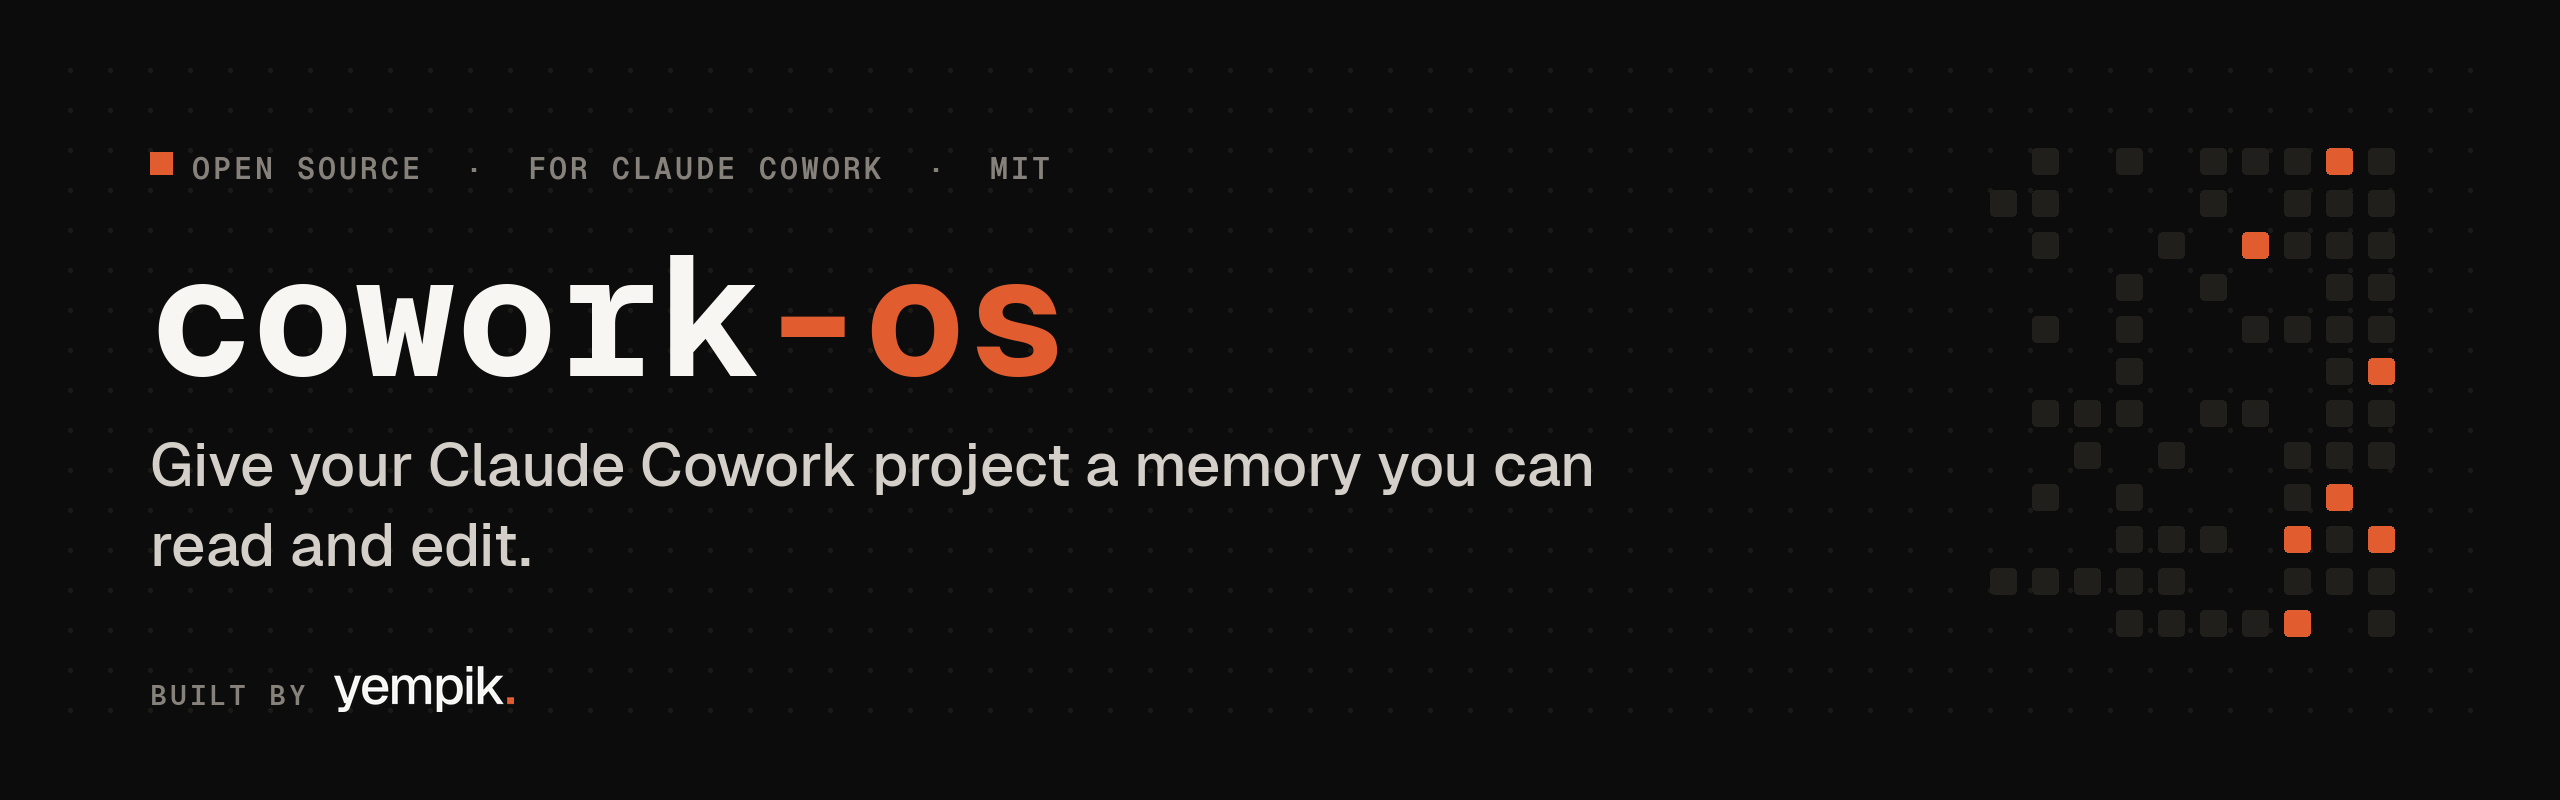
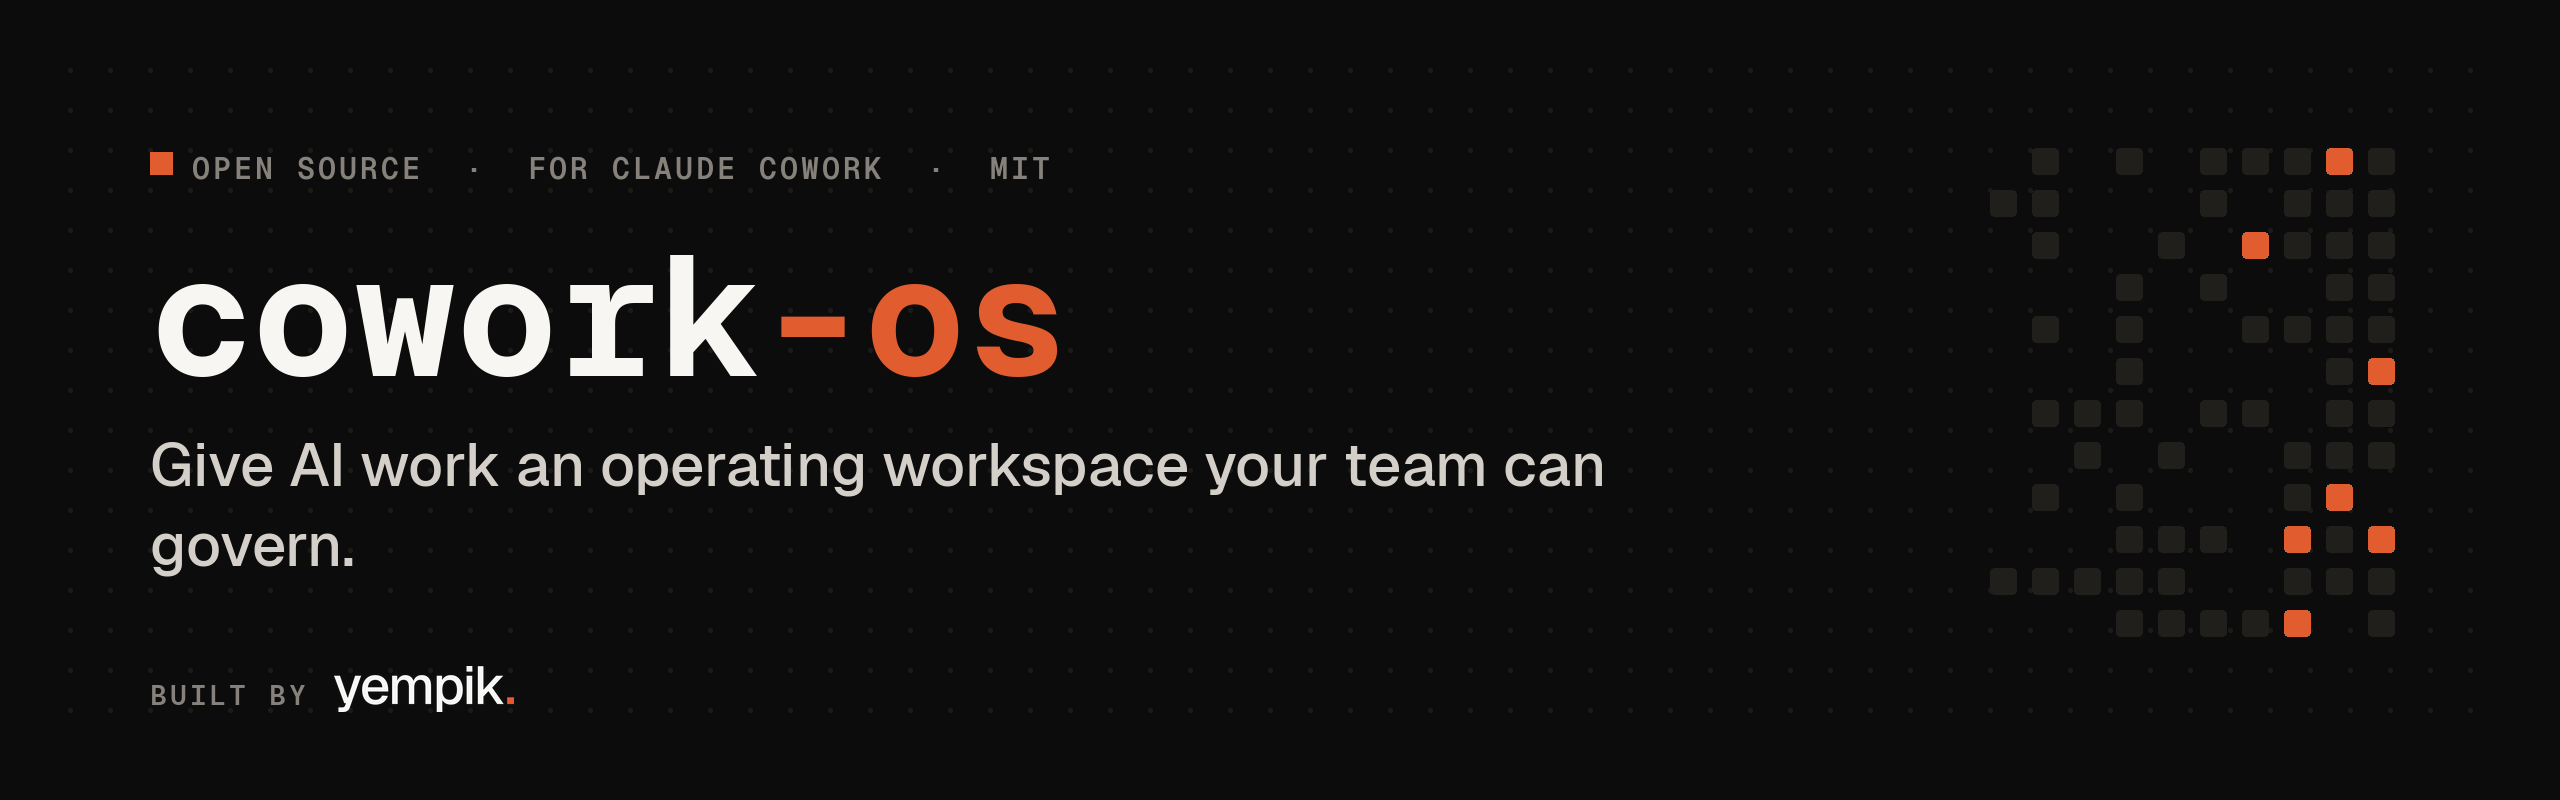
Skip devto-radar run, document decision
The dev.to radar task was skipped on 2026-06-24 due to missing configuration files (runbook, messaging strategy, brand context) in the public template scaffold. Added a lock file and run report documenting the blocker. Also removed outdated image reference from README and updated banner.

Changed region(s): [[0.0938, 0.5312, 0.625, 0.625], [0.0625, 0.6562, 0.2188, 0.7188]]

diff --git a/marketing/devto_radar_2026-06-24.md b/marketing/devto_radar_2026-06-24.md
@@ -1,0 +1,36 @@
+# dev.to + Peerlist Radar — 2026-06-24
+
+## Run log
+
+### 02:10 CEST — Run SKIPPED (blocked: sources of truth missing)
+
+**Preflight**
+- Real Europe/Rome time: 2026-06-24 02:10 CEST ✓
+- STOP_RADAR: not present ✓
+- Lock: prior lock was stale (`00:10:30 CEST`, >15 min old) → overwritten with fresh PID+timestamp ✓
+- Today's log: none existed → this file created ✓
+- Chrome (Claude in Chrome): connected — "Browser 1", macOS, local ✓
+
+**Blocker (why no action was taken)**
+The mounted `cowork-os` folder is the **public template scaffold**, not Raffaele's populated private instance. Every operating/brand file the task names as a "source of truth" is missing or unfilled:
+
+- `marketing/devto_engine_runbook.md` — MISSING (never in git history)
+- `marketing/devto_strategy.md` — MISSING
+- `contenuti-marketing/cowork-os_messaging.md` — MISSING (whole `contenuti-marketing/` folder absent)
+- `contenuti-marketing/peerlist_strategy.md` — MISSING
+- `contenuti-marketing/launch-visuals/devto_cover_en.py` (+ Geist/brand assets) — MISSING
+- `context/tone_of_voice.md`, `context/positioning.md`, `marketing/strategy.md` — present but **unfilled templates** (15–17 `{{PLACEHOLDER}}` each; company = `{{COMPANY}}`, founder = `{{FOUNDER}}`).
+- `scheduled-tasks/` contains no `devto-radar` task file; closest is `engagement-radar-daily.md` (a **read-only** LinkedIn radar).
+
+**Decision**
+All main and initiative actions require posting **public content as Raffaele** (comments, articles, replies) or sending **public network signals** (reactions, follows, reshares) that depend on the missing runbook (procedure) and messaging (HOW to describe cowork-os, banned openings, voice guardrails). With only placeholder brand files available, executing any of these would mean **inventing Yempik's messaging/voice and procedure** — forbidden by both the project rules ("non inventare ... contenuti") and the task's own HARD rules ("follow the runbook to the letter"). Per the AFK fallback ("when in doubt, produce a report"), no write/public action was taken.
+
+Note: the dev.to public API (read-only radar intel) could not be fetched either — `web_fetch` provenance restriction blocks URLs not already in the conversation, and direct curl/wget is disallowed by environment policy. So no thread/tag scan was possible this run.
+
+**Counters (2026-06-24)**
+- dev.to top-level comments: 0 / 4
+- Peerlist top-level comments: 0 / 3
+- Articles: 0 / 1
+- Reactions / follows / reshares / replies: 0 (none — abort)
+
+**Learned:** the workspace mounts the open-source cowork-os *template*, not the live Yempik instance the devto-radar engine was written against. Until the real runbook + messaging + strategy files (or filled-in brand files) are accessible to this session, the radar cannot safely act and will keep skipping.

diff --git a/README.md b/README.md
@@ -41,10 +41,6 @@ Because the operating context is on disk and you can correct it, the agent can r
 
 It is not a separate app and it has no dependencies. You load it into a Claude Cowork project (or any agentic workspace) and you have a working environment in a few minutes, no training required.
 
-<div align="center">
-<img src="docs/chat-vs-memoria.png" alt="Disposable chat vs. an operating workspace with explicit context" width="460" />
-</div>
-
 ### How it works (the stack)
 
 There is no separate runtime or backend. The agent is Claude Cowork itself. cowork-os is what you load into the project to direct it: